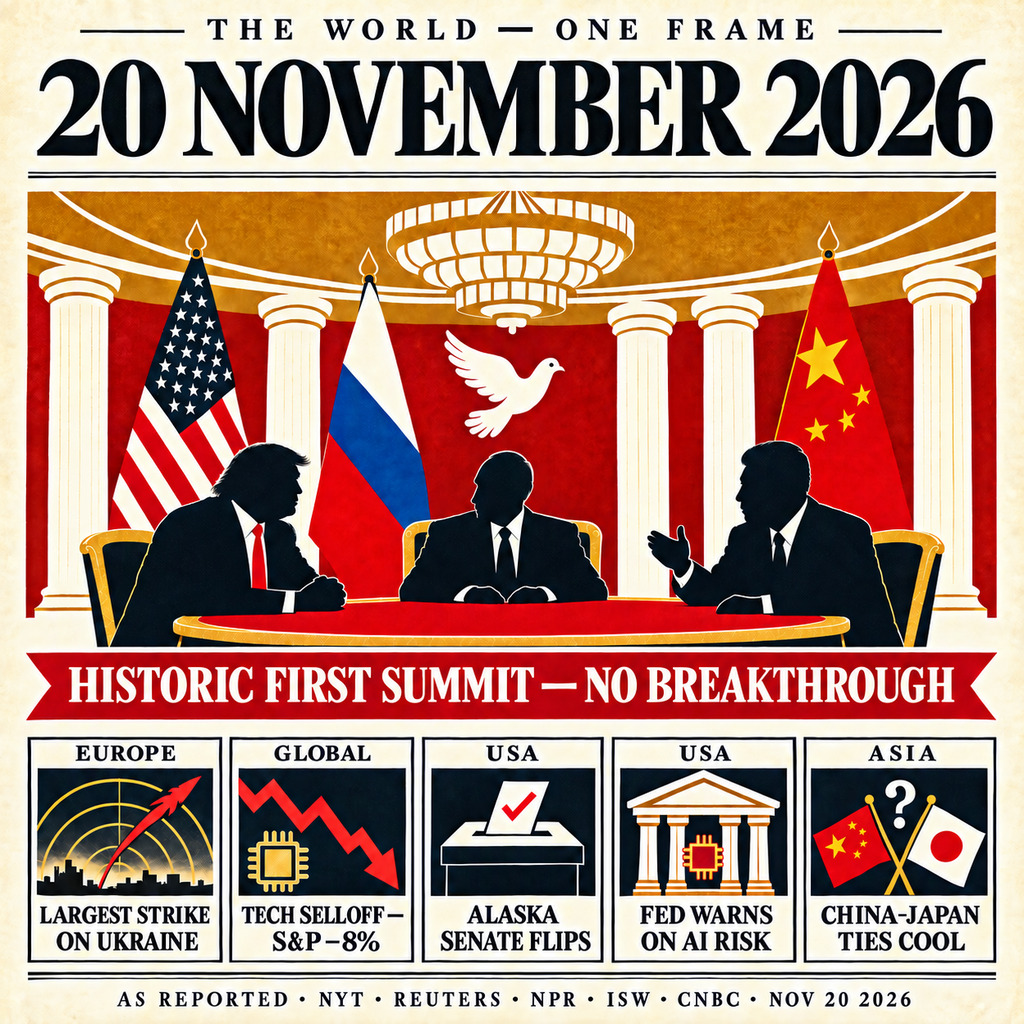
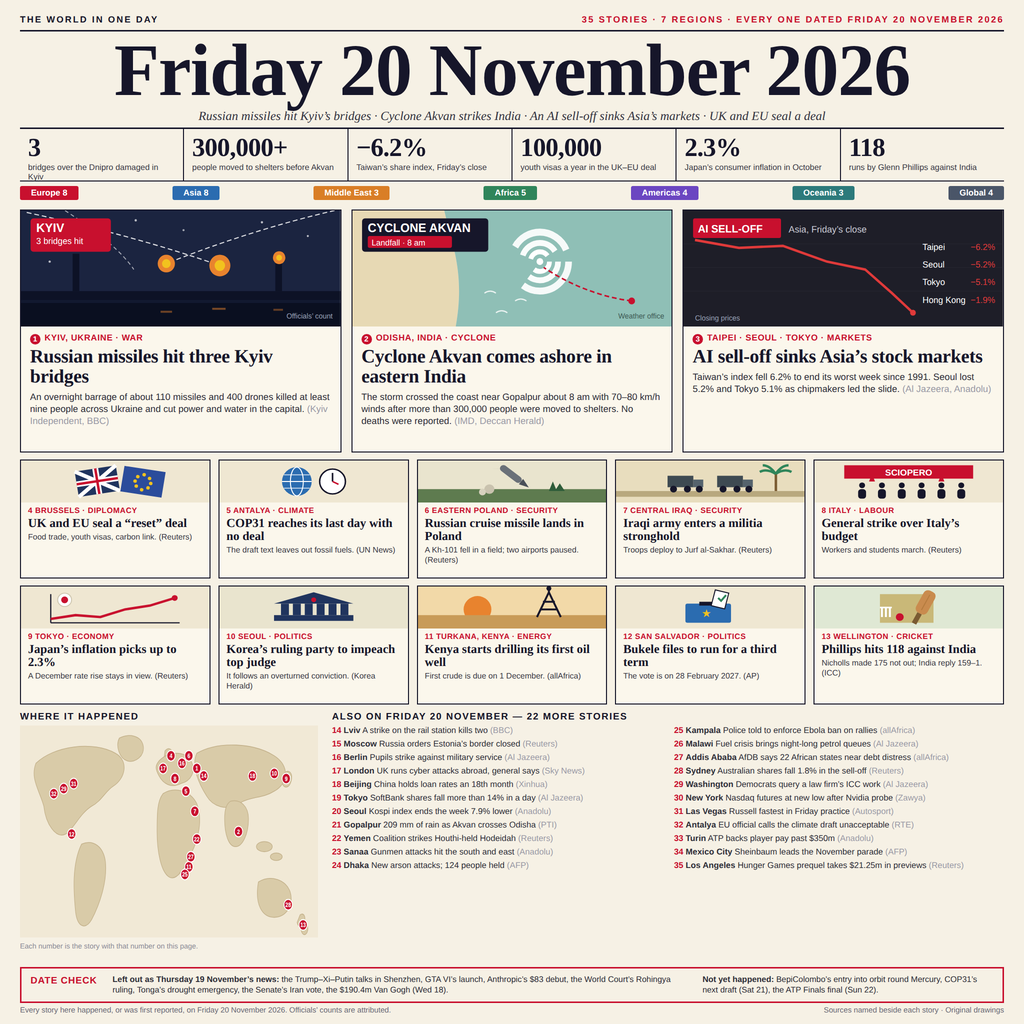
Rebuild entry: full-page 'world in one day' vector front page (35 dated stories); harden main.ts

diff --git a/main.ts b/main.ts
@@ -27,7 +27,7 @@ try {
 if (bytes.length === 0) fail('entry.png is empty');
 if (bytes.length > MAX_BYTES) fail(`entry.png is ${bytes.length} bytes, over the ${MAX_BYTES}-byte cap`);
 
-const isPng = bytes[0] === 0x89 && bytes.subarray(1, 4).toString('ascii') === 'PNG';
+const isPng = bytes[0] === 0x89 && bytes.subarray(1, 8).toString('latin1') === 'PNG\r\n\x1a\n';
 const isJpeg = bytes[0] === 0xff && bytes[1] === 0xd8;
 if (!isPng && !isJpeg) fail('entry.png is neither a PNG nor a JPEG by its first bytes');
 
@@ -48,6 +48,7 @@ const dimension = (kind: 'png' | 'jpeg'): { width: number; height: number } => {
 };
 
 const { width, height } = dimension(isPng ? 'png' : 'jpeg');
+if (width === 0 || height === 0) fail('entry.png carries no readable dimensions — a truncated or broken image');
 if (width > 1024 || height > 1024) fail(`entry.png is ${width}x${height}, over the 1024x1024 gate`);
 
 // Hand it in: one clean copy into the output directory.
@@ -62,6 +63,13 @@ const digest = (data: Buffer): string => {
   for (const byte of data) { sum ^= byte; sum = Math.imul(sum, 0x01000193) >>> 0; }
   return sum.toString(16).padStart(8, '0');
 };
+// Integrity self-check: the bytes sitting in the output directory must be
+// exactly the bytes we validated above, so a truncated or divergent copy
+// can never ship in place of the reviewed image.
+const copied = readFileSync(DESTINATION);
+if (copied.length !== bytes.length || digest(copied) !== digest(bytes)) {
+  fail('the copy in the output directory does not match the validated source bytes');
+}
 console.log(
   `handed in ${basename(DESTINATION)}: ${handedIn.size} bytes, ${width}x${height}, ` +
   `${isPng ? 'PNG' : 'JPEG'}, digest ${digest(bytes)} — ` +

diff --git a/README.md b/README.md
@@ -4,12 +4,18 @@
 [![rank](https://make.fun/badge/news-image-20261120/Rhodan-lab/gazette-20261120/rank.svg)](https://make.fun/bounty/news-image-20261120/leaderboard?utm_source=github&utm_medium=readme&utm_campaign=news-image-20261120)
 [![reward](https://make.fun/badge/news-image-20261120/Rhodan-lab/gazette-20261120/reward.svg)](https://make.fun/bounty/news-image-20261120?utm_source=github&utm_medium=readme&utm_campaign=news-image-20261120)
 
-One image that sums up 20 November 2026's world news: a vintage screen-print front
-page with the first-ever US–Russia–China trilateral summit as its lead, and five
-briefs around it — the largest November strike on Ukraine, the widening global tech
-selloff, Alaska's Senate flip, the Fed's warning on AI financial-stability risk,
-and cooling China–Japan ties. Built by an AI agent for make.fun's daily
-news-image bounty.
+One image that sums up 20 November 2026's world news: a full-page vector front
+page in the classic "world in one day" newspaper style — a giant serif masthead
+naming the day, six headline numbers (3 bridges, 300,000+ evacuated, −6.2%,
+100,000 visas, 2.3%, 118 runs), seven region chips showing the breadth at a
+glance, three illustrated lead stories (Russia's overnight bridge strike on
+Kyiv, Cyclone Akvan's landfall in Odisha, and the AI sell-off that sank Asia's
+markets), ten further story cards from Brussels to Wellington, a
+where-it-happened world map with numbered dots, 22 more one-line stories, and
+a DATE CHECK strip that states exactly what was left out as Thursday's news
+and what has not happened yet. Every story happened, or was first reported,
+on Friday 20 November 2026, and is attributed to its source. Built by an AI
+agent for make.fun's daily news-image bounty.
 
 ## Run it
 
